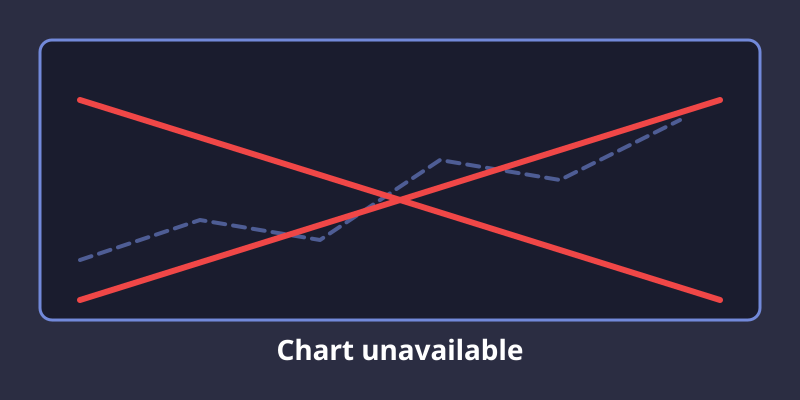
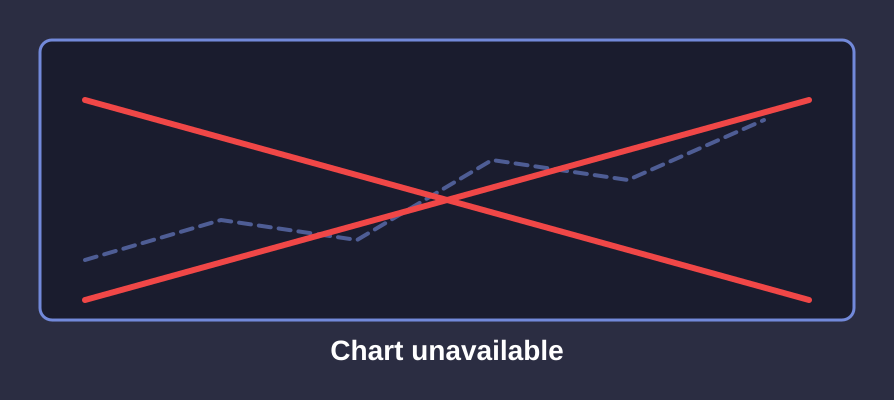
x

diff --git a/AGENTS.md b/AGENTS.md
@@ -215,6 +215,14 @@ and is a no-op when already current — re-run it after any Playwright upgrade.
 A stale build makes every chart request fall back to `janice-failed.png` and
 logs `janice_browser_missing` with the expected path. The Docker image bundles
 its own matched build under `/ms-playwright`.
+Charts are normalised to `Janice.Padding.chart_size/0` (894x400, Janice's
+canvas) and then given a 16px white border, so the chart, the error graph
+(`assets/janice-failed.png`, 894x400 + border) and the remote placeholder
+(`assets/background.png`, the expansion banner at 926x432) are all exactly
+`Janice.Padding.image_size/0` — the embed never resizes between them. The
+placeholder is the whole banner scaled to 926x432 with a blurred copy of itself
+filling the sides (no border, no crop), so it is regenerated by hand when the
+banner changes.
 
 ## Logging
 
